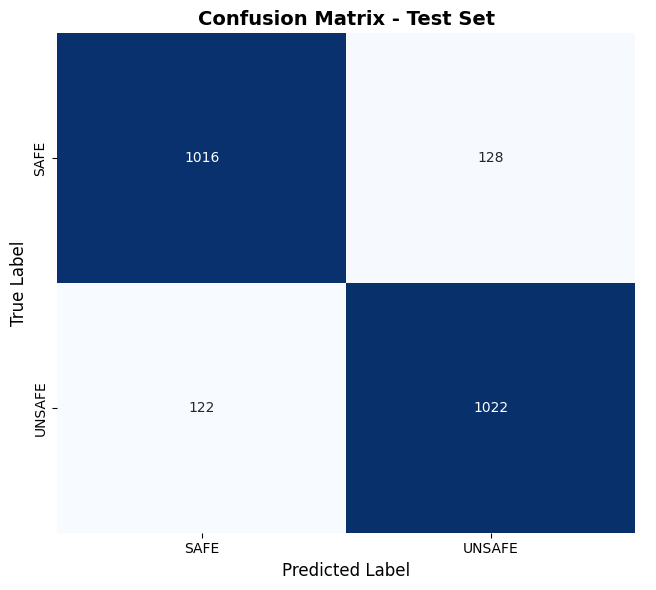
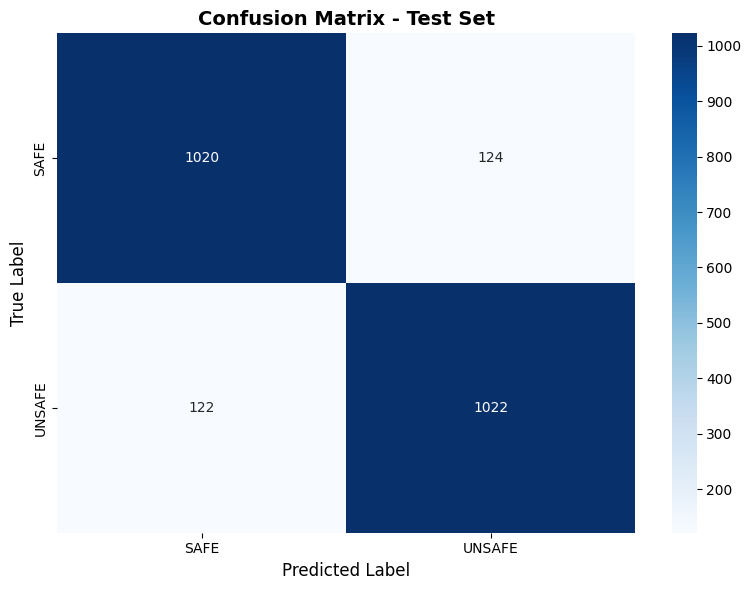
implemented onnx model

diff --git a/07_lyriclens/functions.py b/07_lyriclens/functions.py
@@ -1,13 +1,14 @@
 from ast import With
 import re
 import os
+import numpy as np
 import pandas as pd
 from dotenv import load_dotenv
 import lyricsgenius
 import contractions
 import pandas as pd
-from transformers import AutoModelForSequenceClassification, AutoTokenizer, pipeline
-import ollama
+from transformers import AutoTokenizer, pipeline
+import onnxruntime as ort
 
 from spotify_functions import get_song_details
 
@@ -22,14 +23,81 @@ genius = lyricsgenius.Genius(
     retries=3
 )
 
+class ONNXTextClassifier:
+    """
+    A custom wrapper class designed to mimic the Hugging Face pipeline 
+    behavior using lightweight ONNX Runtime for low-memory deployment (Render).
+    """
+    def __init__(self, model_dir="./onnx_model"):
+        self.tokenizer = AutoTokenizer.from_pretrained(model_dir)
+        # Initialize ONNX inference session (runs strictly on CPU, using < 70MB RAM)
+        self.session = ort.InferenceSession(os.path.join(model_dir, "model.onnx"))
+        self.id2label = {0: "SAFE", 1: "UNSAFE"}
+
+    def _softmax(self, x):
+        exp_x = np.exp(x - np.max(x, axis=-1, keepdims=True))
+        return exp_x / np.sum(exp_x, axis=-1, keepdims=True)
+
+    def __call__(self, text):
+        """
+        Mimics the pipeline call structure: classifier("some text") 
+        Returns: [{'label': 'SAFE'/'UNSAFE', 'score': 0.99}]
+        """
+        if not text or not str(text).strip():
+            return [{"label": "SAFE", "score": 1.0}]
+
+        try:
+            # Tokenize text into numpy inputs
+            encoded = self.tokenizer(
+                str(text),
+                return_tensors="np",
+                truncation=True,
+                max_length=512,
+                padding=True
+            )
+
+            ort_inputs = {
+                "input_ids": encoded["input_ids"].astype(np.int64),
+                "attention_mask": encoded["attention_mask"].astype(np.int64),
+            }
+
+            # Run inference through ONNX session
+            logits = self.session.run(["logits"], ort_inputs)[0]
+            probabilities = self._softmax(logits)[0]
+
+            pred_idx = int(np.argmax(probabilities))
+            label = self.id2label.get(pred_idx, "SAFE")
+            score = float(probabilities[pred_idx])
+
+            # Match standard Hugging Face pipeline return format (list of dicts)
+            return [{"label": label, "score": score}]
+        
+        except Exception as e:
+            print(f"ONNX Classification error: {e}")
+            return [{"label": "SAFE", "score": 0.5}]
+
+
+# Load the model matching your original initialization structure
+def load_onnx_model():
+    try:
+        # Tries to load the local lightweight ONNX folder
+        classifier = ONNXTextClassifier(model_dir="./onnx_model")
+        print("Lightweight ONNX model loaded successfully.")
+        return classifier
+    except Exception as e:
+        print(f"Failed to load local ONNX model: {e}")
+        return None
+
 # Load the model from Hugging Face Hub using the pipeline API
 def load_model_from_hf():
     classifier = pipeline(
         "text-classification",
         model="devanasokan/bert-lyrics-classifier",
+        framework="pt"
     )
     print("Trained BERT model loaded from Hugging Face Hub.")
     return classifier
+
 
 # Function to detect if a song is explicit based on Spotify metadata
 def detect_explicit(songdetails):
@@ -244,13 +312,16 @@ def get_model_output(classifier, verse_records):
 
         result = classifier(verse)
 
+        print(result)
+
         label = result[0]["label"]
-        if label == "LABEL_0":
-            label = "SAFE"
-        elif label == "LABEL_1":
-            label = "UNSAFE"
-        else:
-            label = "UNKNOWN"
+        print(label)
+        # if label == "LABEL_0":
+        #     label = "SAFE"
+        # elif label == "LABEL_1":
+        #     label = "UNSAFE"
+        # else:
+        #     label = "UNKNOWN"
 
         score = result[0]["score"]
 
@@ -258,6 +329,7 @@ def get_model_output(classifier, verse_records):
         row["score"] = float(score)
         label_list.append(label)
 
+    print(f"Labels assigned: {label_list}")
     ovr_label = "UNSAFE" if "UNSAFE" in label_list else "SAFE"
     print("Update complete")
     return verse_records, ovr_label

diff --git a/07_lyriclens/export_to_onnx.py b/07_lyriclens/export_to_onnx.py
@@ -1,0 +1,41 @@
+from pathlib import Path
+import torch
+from transformers import AutoModelForSequenceClassification, AutoTokenizer
+
+model_id = "devanasokan/bert-lyrics-classifier"
+output_dir = Path("./onnx_model")
+output_dir.mkdir(exist_ok=True)
+
+print("Downloading BERT model & tokenizer from Hugging Face...")
+tokenizer = AutoTokenizer.from_pretrained(model_id)
+model = AutoModelForSequenceClassification.from_pretrained(model_id)
+model.eval()
+
+print("Exporting to ONNX format...")
+dummy_text = "This is a test lyric verse"
+inputs = tokenizer(
+    dummy_text,
+    return_tensors="pt",
+    max_length=512,
+    truncation=True,
+    padding="max_length"
+)
+
+onnx_path = output_dir / "model.onnx"
+
+torch.onnx.export(
+    model,
+    (inputs["input_ids"], inputs["attention_mask"]),
+    str(onnx_path),
+    input_names=["input_ids", "attention_mask"],
+    output_names=["logits"],
+    dynamic_axes={
+        "input_ids": {0: "batch_size", 1: "sequence_length"},
+        "attention_mask": {0: "batch_size", 1: "sequence_length"},
+        "logits": {0: "batch_size"},
+    },
+    opset_version=14,
+)
+
+tokenizer.save_pretrained(output_dir)
+print(f"🎉 Model exported successfully to: {output_dir.resolve()}")

diff --git a/07_lyriclens/test_onnx.py b/07_lyriclens/test_onnx.py
@@ -1,0 +1,34 @@
+import numpy as np
+import onnxruntime as ort
+from transformers import AutoTokenizer
+
+model_dir = "./onnx_model"
+tokenizer = AutoTokenizer.from_pretrained(model_dir)
+session = ort.InferenceSession(f"{model_dir}/model.onnx")
+
+id2label = {0: "SAFE", 1: "UNSAFE"}
+
+def softmax(x):
+    exp_x = np.exp(x - np.max(x, axis=-1, keepdims=True))
+    return exp_x / np.sum(exp_x, axis=-1, keepdims=True)
+
+def test_prediction(text):
+    encoded = tokenizer(
+        text,
+        return_tensors="np",
+        truncation=True,
+        max_length=512,
+        padding=True
+    )
+    ort_inputs = {
+        "input_ids": encoded["input_ids"].astype(np.int64),
+        "attention_mask": encoded["attention_mask"].astype(np.int64),
+    }
+    logits = session.run(None, ort_inputs)[0]
+    probs = softmax(logits)[0]
+    pred_idx = int(np.argmax(probs))
+    return id2label.get(pred_idx, "SAFE"), float(probs[pred_idx])
+
+# Run a test classification
+label, score = test_prediction("I love you, baby!")
+print(f"Prediction Result: {label} (Confidence: {score:.4f})")

diff --git a/07_lyriclens/callbacks.py b/07_lyriclens/callbacks.py
@@ -7,7 +7,7 @@ from dash.exceptions import PreventUpdate
 from urllib.parse import urlparse
 
 from layouts import song_card, song_classification_page, song_label_card, verse_label_table, model_page, home_page
-from functions import load_model_from_hf, get_structured_lyrics, split_verses, clean_verses, get_model_output
+from functions import load_model_from_hf, load_onnx_model, get_structured_lyrics, split_verses, clean_verses, get_model_output
 from spotify_functions import get_access_token, get_currently_playing, search_possible_songs
 from data import init_dashboard_data
 
@@ -16,7 +16,8 @@ logger = logging.getLogger(__name__)
 # print(ALL)
 
 # Load the classifier model and get the Spotify access token
-CLASSIFIER = load_model_from_hf()
+# CLASSIFIER = load_model_from_hf()
+CLASSIFIER = load_onnx_model()
 TOKEN = get_access_token()
 
 def register_callbacks(app):

diff --git a/07_lyriclens/layouts.py b/07_lyriclens/layouts.py
@@ -3,7 +3,7 @@ from dash import html, dcc
 import dash_bootstrap_components as dbc
 import dash_mantine_components as dmc
 
-import homeinfo
+import projectinfo
 import modelinfo
 from data import INITIAL_DASHBOARD_DATA
 
@@ -363,7 +363,7 @@ def model_page():
 def home_page():
     return html.Div([
         html.H1("Project Overview", className="page-title mb-4"),
-        html.Div(id="page-content", children=homeinfo.layout),
+        html.Div(id="page-content", children=projectinfo.layout),
     ], className="dashboard-page")
 
 # App Layout

diff --git a/06_dashboard/app.py b/06_dashboard/app.py
@@ -1,3 +1,7 @@
+import os
+os.environ["USE_TF"] = "0"
+os.environ["USE_TORCH"] = "1"
+
 import logging
 
 from dash import Dash

diff --git a/07_lyriclens/app.py b/07_lyriclens/app.py
@@ -1,3 +1,7 @@
+import os
+os.environ["USE_TF"] = "0"
+os.environ["USE_TORCH"] = "1"
+
 import logging
 
 from dash import Dash
